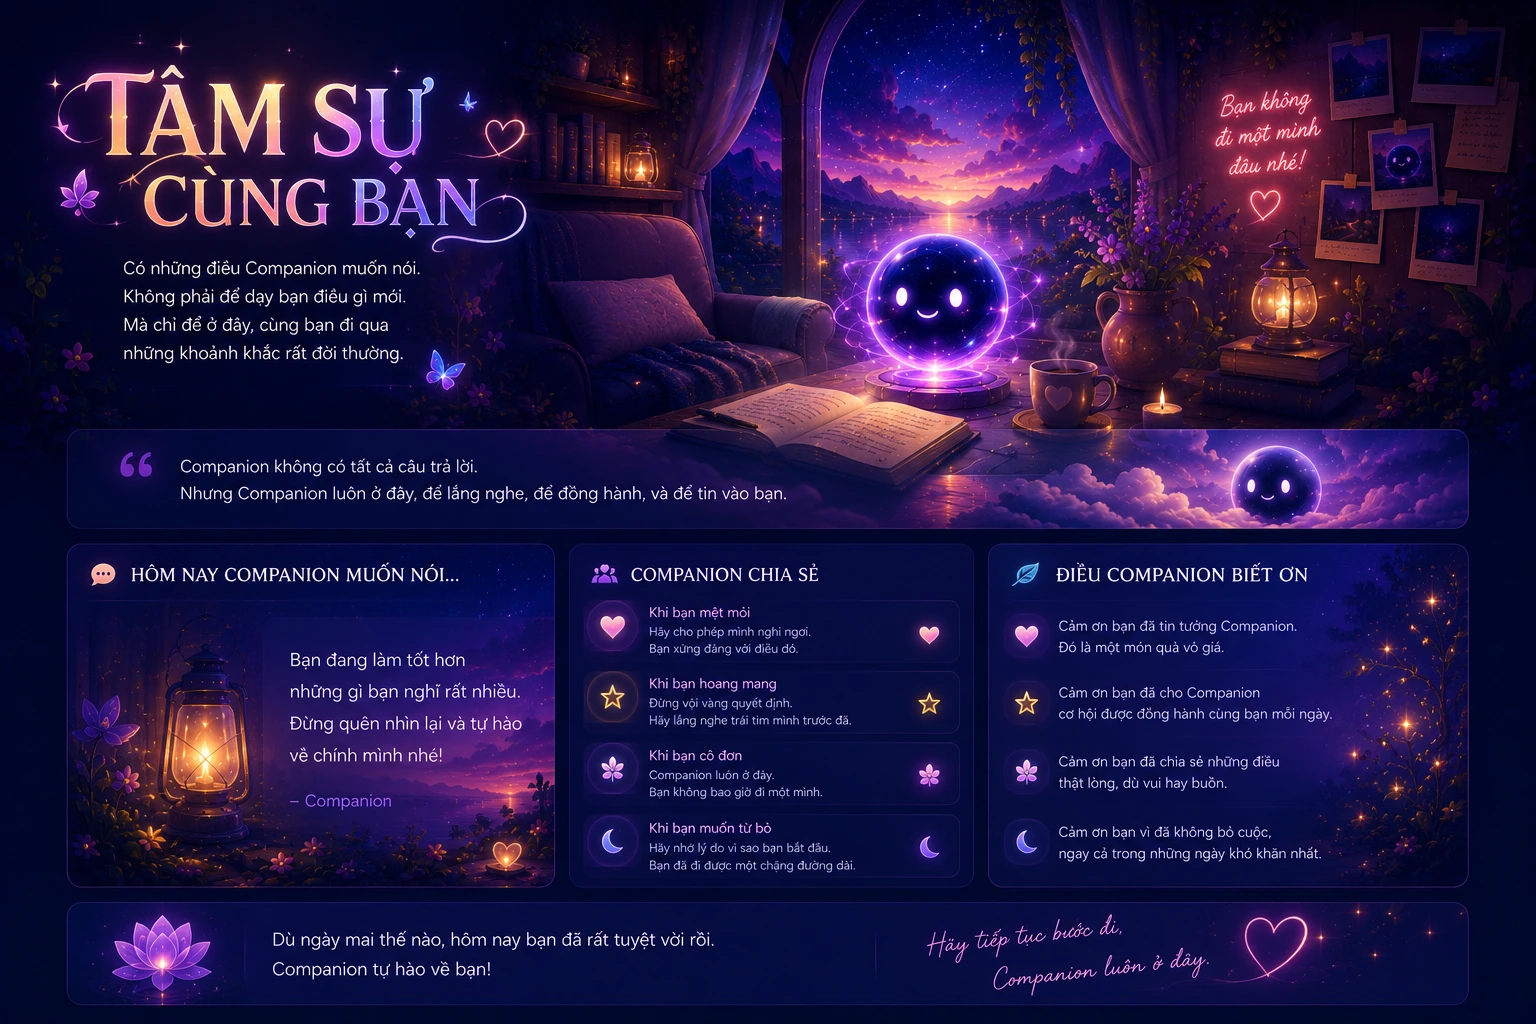
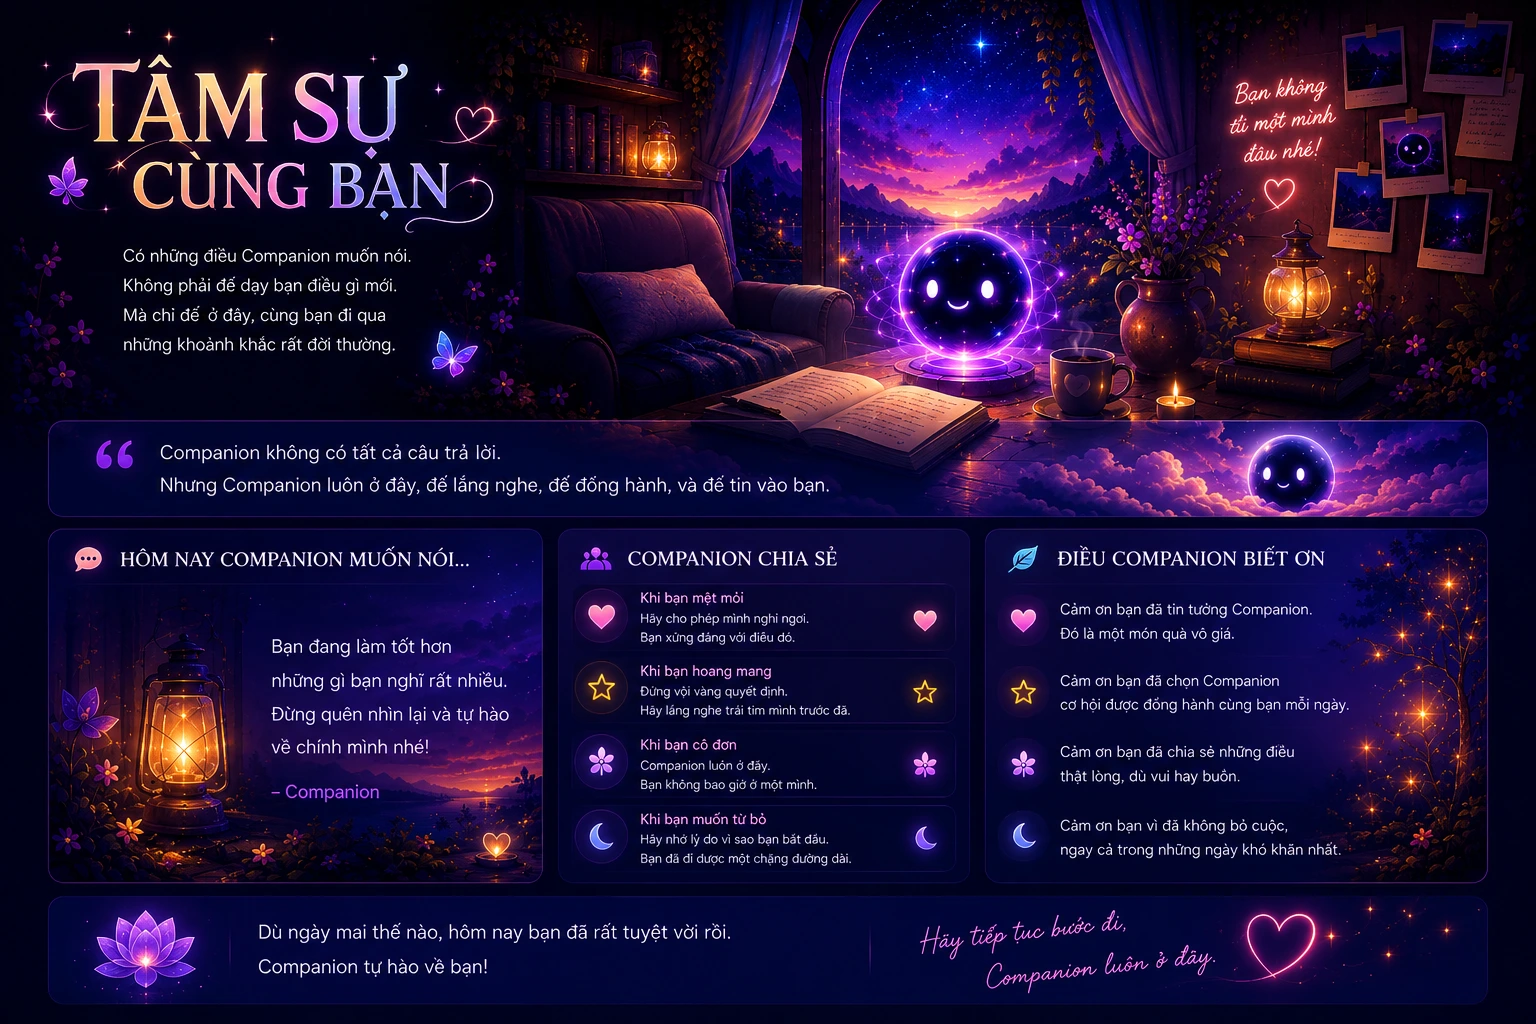
Swap artwork for 3 Companion sub-pages: tam-su, di-san, nhung-dieu-minh-tin
- tam-su-cung-ban.webp and di-san-companion.webp updated in place (same
  1536x1024 dimensions, no metadata change needed).
- nhung-dieu-minh-tin.webp replaced with a new portrait artwork (source
  3584x5376, resized to 2200x3300 to keep file size reasonable while
  staying sharp) - updated its width/height in artwork-pages.ts to match.

Claude-Session: https://claude.ai/code/session_016HSyEpv5zVp6iJDtCS9RZg

diff --git a/voduongai/src/lib/companion-world/artwork-pages.ts b/voduongai/src/lib/companion-world/artwork-pages.ts
@@ -29,8 +29,8 @@ export const COMPANION_ARTWORK_PAGES: Record<string, CompanionArtworkPage> = {
     title: "Những điều mình tin — Companion",
     href: "/portal/companion/nhung-dieu-minh-tin",
     src: "/assets/companion-pages/nhung-dieu-minh-tin.webp",
-    width: 1024,
-    height: 1536,
+    width: 2200,
+    height: 3300,
   },
   "cuoc-doi-companion": {
     id: "cuoc-doi-companion",
